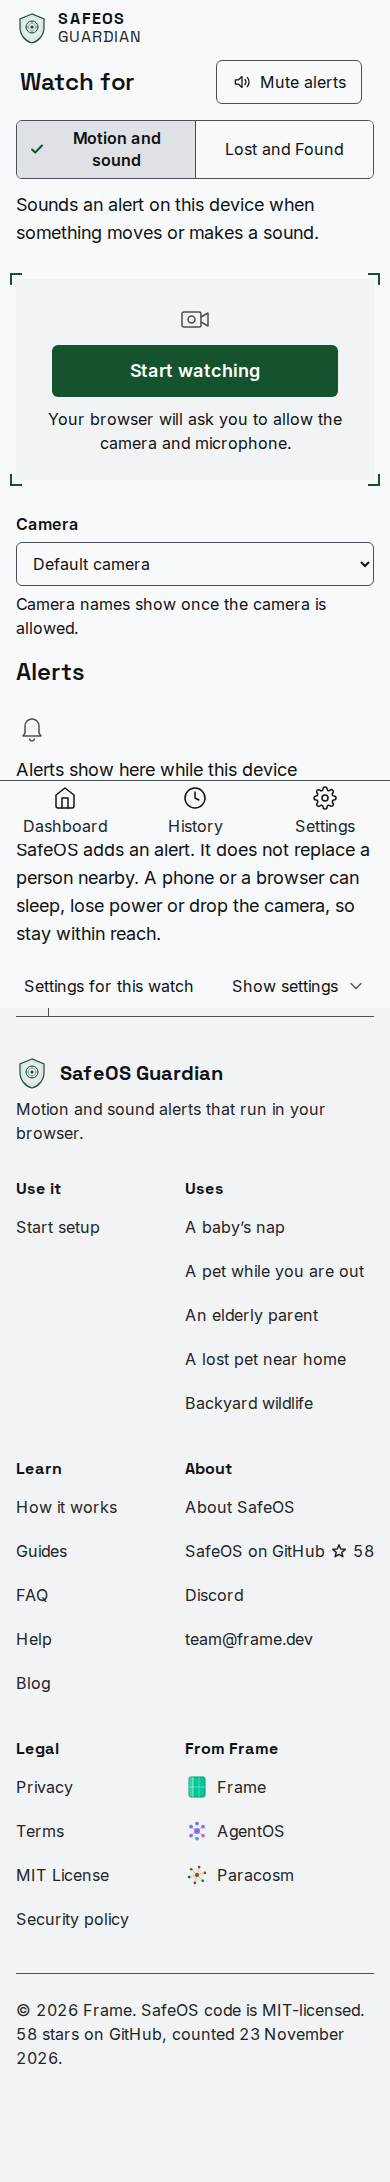
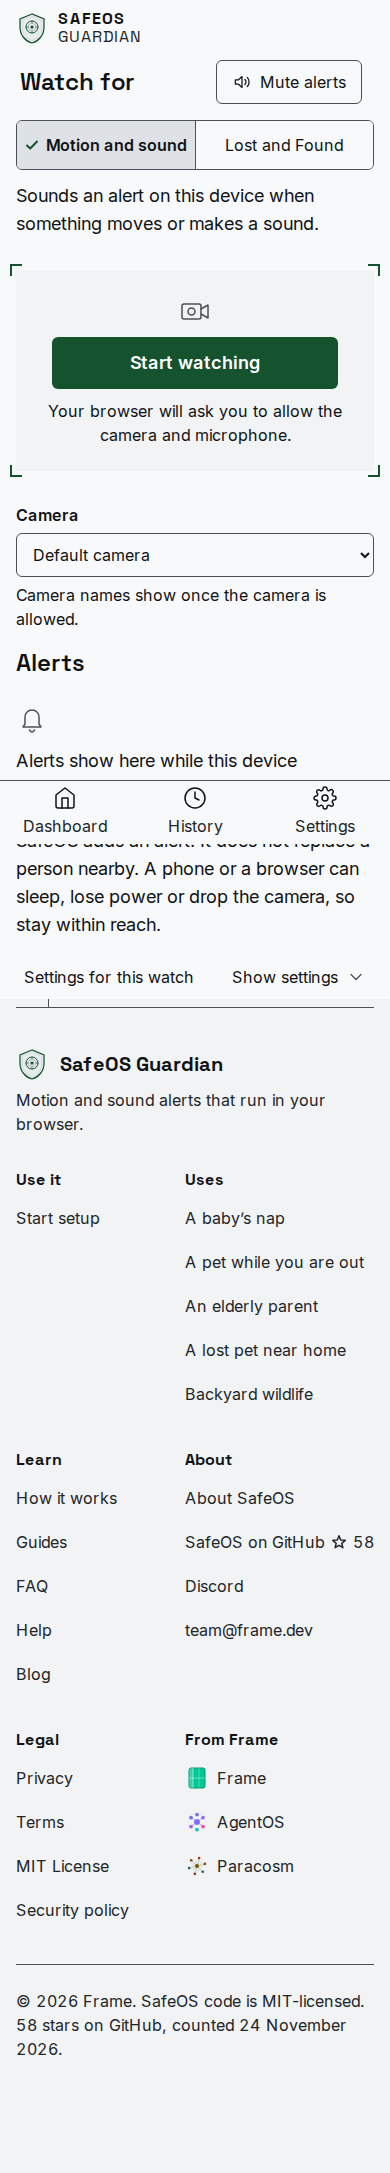
Pictures of the watch after review, from the Pictures run on 5922f3d: the newest alert under Stop watching on a phone, Watch for's options on one line, and each meter's name on one line from 1024 px

diff --git a/docs/pictures/pr-59/README.md b/docs/pictures/pr-59/README.md
@@ -2,10 +2,10 @@
 
 Captured by the Pictures workflow (Playwright, Chromium, on the built static
 site) and copied byte for byte from the artifacts of
-[run 45257476771](https://github.com/framerslab/safeos/actions/runs/45257476771)
-on commit 8dcfebe, where every walk passed. The `before/` files come from
+[run 45294828219](https://github.com/framerslab/safeos/actions/runs/45294828219)
+on commit 5922f3d, where every walk passed. The `before/` files come from
 [run 45075636798](https://github.com/framerslab/safeos/actions/runs/45075636798)
-on commit aa7d648; the base commit is the same in both runs.
+on commit aa7d648, whose base commit was c59795d.
 
 `after/`: the `pictures` artifact, the pull request's own build.
 
@@ -24,4 +24,5 @@ in place of the device's camera.
 | `monitor-watch-watching-<width>-<look>.png` | Watching the drawn camera. After: the live picture in its corner ticks with the meters under it. Before: the page as it stood at the base commit |
 | `monitor-watch-settings-<width>-<look>.png` | The watch's settings. After: **Show settings** open under **Settings for this watch**. Before: the page scrolled to its settings |
 | `watch-try-again-other-tab-390-<look>.png` (after only) | **Try again** after a blocked camera while another tab watches: the question "Watch here instead? The other tab stops." with **Watch here** and **Keep the other tab** |
+| `watch-newest-alert-390-<look>.png` (after only) | Watching at 390 by 844 pixels with one new alert: **Stop watching**, then the heading **Alerts** and the newest entry above the phone bar, the camera menu under the list |
 | `watch-microphone-lost-390-<look>.png` (after only) | The frame after the microphone's track ended while watching: Sound names the microphone, and Motion and Picture change go on |
